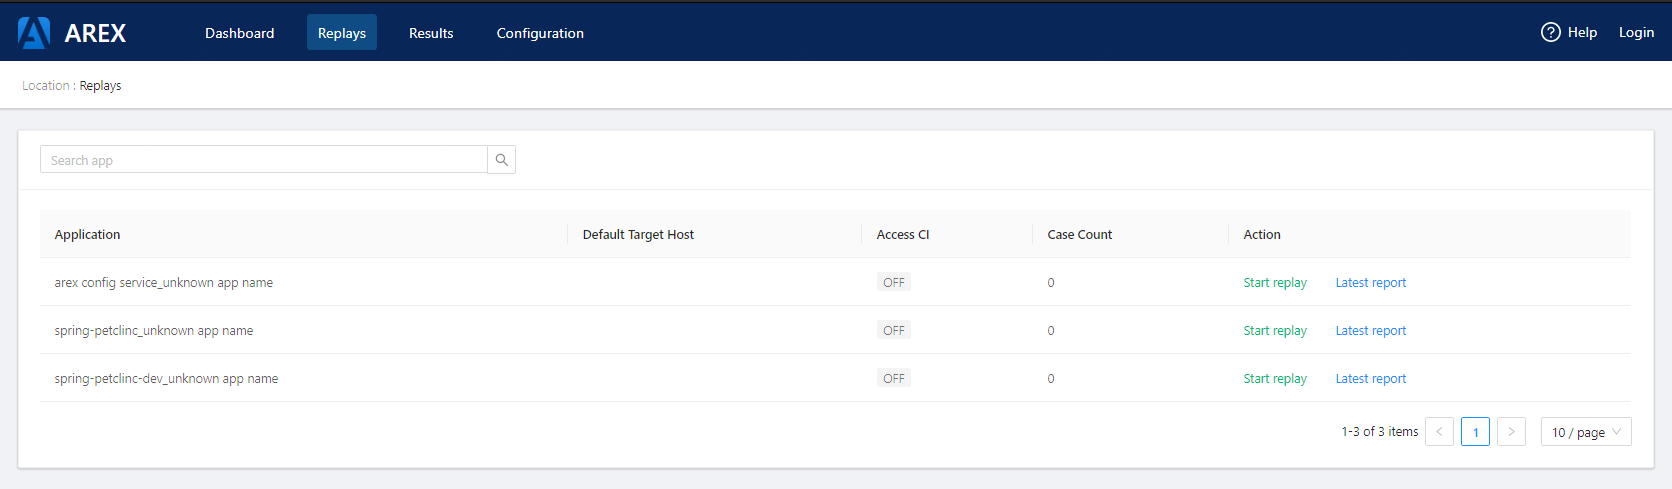
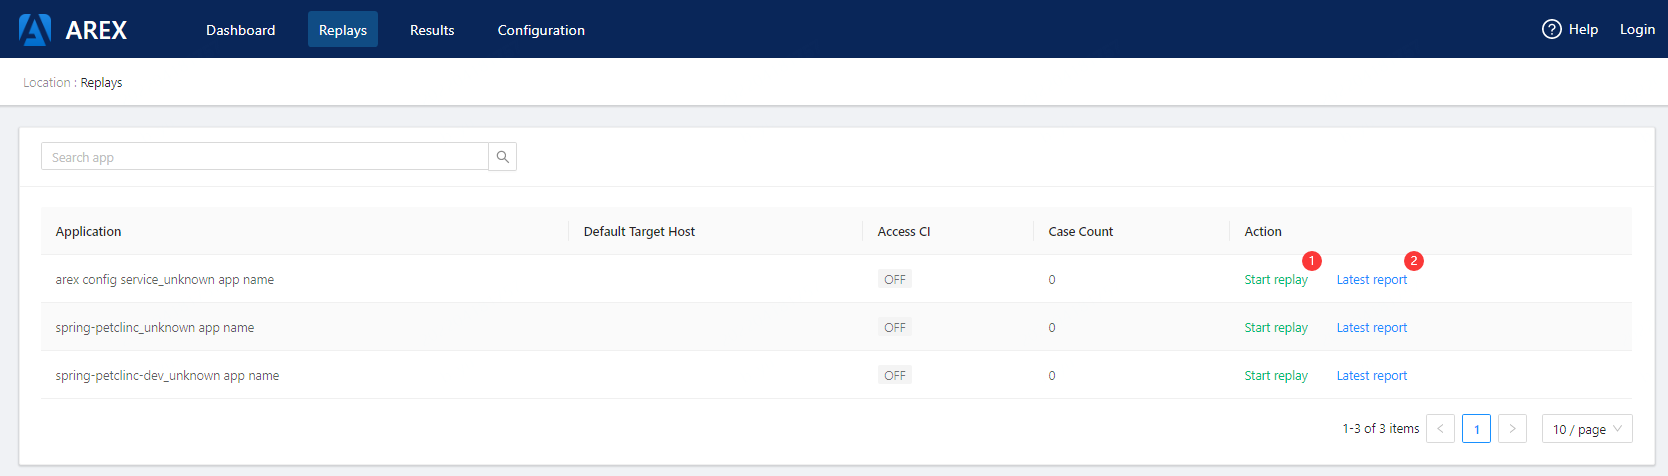
add introductions documents

diff --git a/documents/introduction.md b/documents/introduction.md
@@ -1,1 +1,16 @@
-![avatar](screenshots/replays.png)
+[TOC]
+
+# DASHBOARD
+# REPLAYS
+## applications list
+![avatar](screenshots/replays.png "Applications")
+1. Start replay -- Starting a replay test task.
+2. Latest report -- Link to the latest report page.\
+## Start replay config
+![avatar](screenshots/replays.png "Applications")\
+This page is displayed after the button is clicked
+1. Target Host -- Tested service address
+# RESULTS
+# CONFIGURATION
+
+
